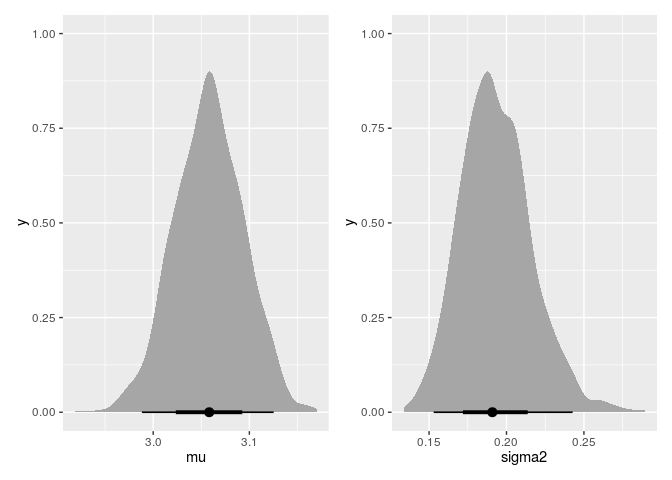
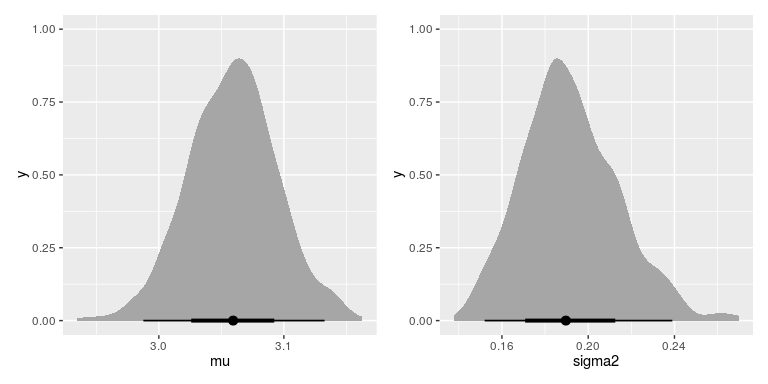
change fig dims

diff --git a/README.md b/README.md
@@ -38,15 +38,15 @@ summary(post)
 #> 1. Empirical mean and standard deviation for each variable,
 #>    plus standard error of the mean:
 #> 
-#>          Mean      SD Naive SE Time-series SE
-#> mu     3.0579 0.03605 0.001140       0.001140
-#> sigma2 0.1934 0.02299 0.000727       0.000727
+#>          Mean      SD  Naive SE Time-series SE
+#> mu     3.0591 0.03549 0.0011224      0.0011224
+#> sigma2 0.1916 0.02222 0.0007028      0.0007529
 #> 
 #> 2. Quantiles for each variable:
 #> 
-#>         2.5%    25%    50%    75%  97.5%
-#> mu     2.988 3.0329 3.0583 3.0825 3.1253
-#> sigma2 0.153 0.1773 0.1909 0.2074 0.2427
+#>         2.5%    25%    50%    75% 97.5%
+#> mu     2.988 3.0349 3.0595 3.0820 3.133
+#> sigma2 0.152 0.1765 0.1896 0.2057 0.239
 plot(post)
 ```
 
